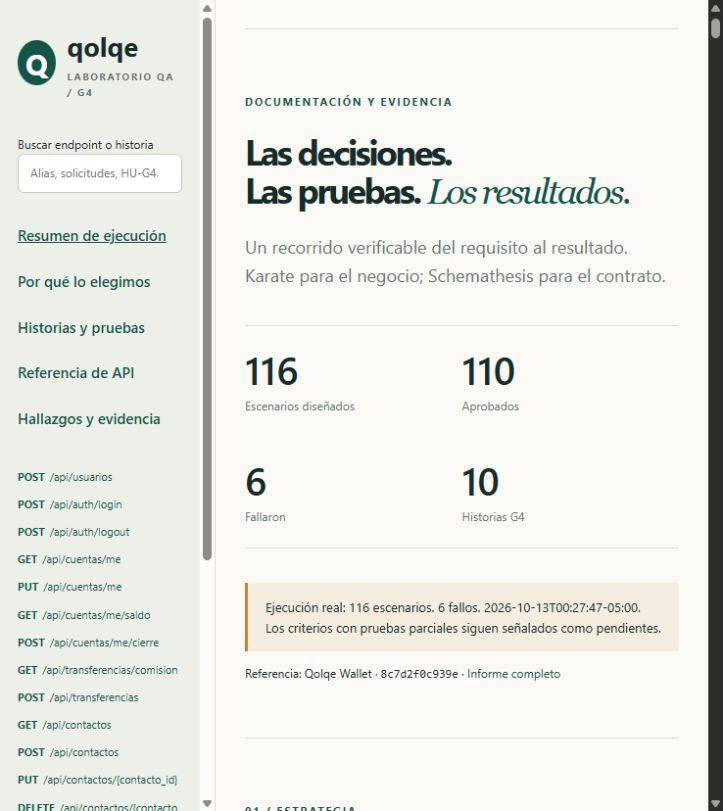
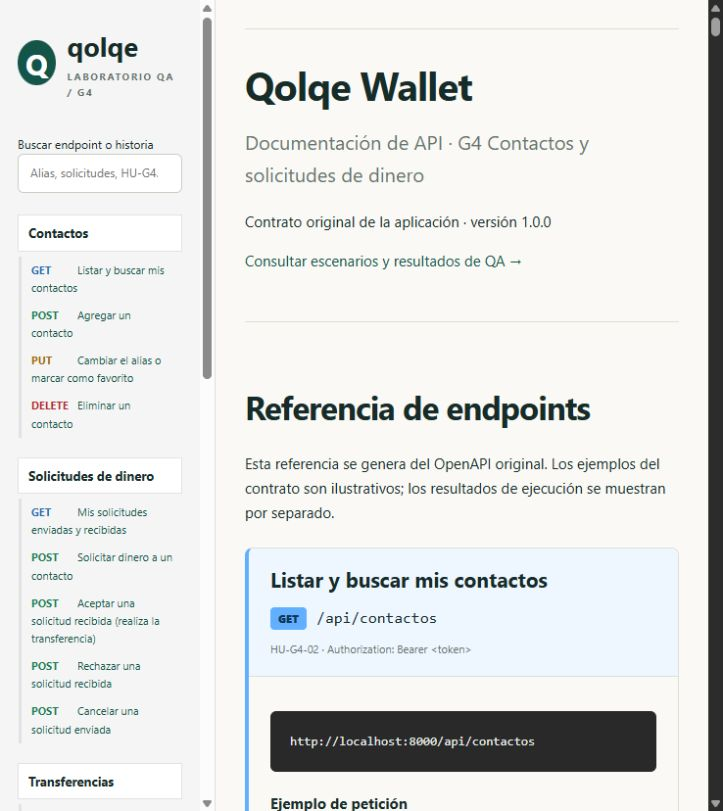
docs: ajustar referencia apiDoc, colores HTTP y registrar resultados CI

diff --git a/apidoc/styles.css b/apidoc/styles.css
@@ -1,1 +1,10 @@
 :root{--ink:#172b29;--green:#145449;--paper:#faf9f5;--line:#dedfd6;--muted:#66746e;--amber:#c08633}*{box-sizing:border-box}html{scroll-behavior:smooth;scroll-padding-top:30px}body{margin:0;background:var(--paper);color:var(--ink);font:15px/1.65 'Segoe UI',Arial,sans-serif}a{color:var(--green);text-decoration:none}a:hover{text-decoration:underline}aside{position:fixed;inset:0 auto 0 0;width:270px;padding:30px 25px;background:#edf0e8;border-right:1px solid var(--line);overflow:auto}.brand{display:flex;gap:12px;align-items:center;font-size:27px;font-weight:750;color:var(--ink)}.logo{display:grid;place-items:center;width:46px;height:46px;border-radius:50%;background:var(--green);color:white;font-size:30px}.block{display:block;font-size:10px;letter-spacing:1.6px}.muted{color:var(--muted)}.search{display:block;font-size:12px;margin:35px 0 22px}input,select{font:inherit;border:1px solid #c6cec1;border-radius:6px;background:white;padding:9px 12px;width:100%;color:var(--ink)}input:focus,select:focus{outline:2px solid var(--green);outline-offset:2px}nav{display:grid;gap:4px;margin-bottom:24px}nav a{padding:9px 0;font-weight:600}.nav-op{display:block;font-size:11px;padding:5px 0;overflow-wrap:anywhere}.nav-op span{font-weight:700;margin-right:5px}aside footer{font-size:11px;color:var(--muted);margin-top:32px;border-top:1px solid var(--line);padding-top:20px}main{margin-left:270px;max-width:1510px;padding:0 64px}header{display:flex;justify-content:space-between;gap:15px;padding:26px 0;border-bottom:1px solid var(--line);font-size:12px}.eyebrow,.kicker,.label{font-size:11px;letter-spacing:1.8px;font-weight:700}.kicker{color:var(--green);text-transform:uppercase}section{padding:54px 0;border-bottom:1px solid var(--line)}h1{font-size:clamp(36px,4.5vw,65px);line-height:1.08;letter-spacing:-2.5px;font-weight:650;margin:22px 0}h1 em{font-family:Georgia,serif;font-weight:400;color:var(--green)}h2{font-size:33px;line-height:1.2;letter-spacing:-1px;margin:13px 0 25px}h3{font-size:21px;line-height:1.3}.lead{max-width:650px;font-size:18px;color:var(--muted)}.metrics{display:grid;grid-template-columns:repeat(4,1fr);margin:35px 0;border-top:1px solid var(--line);border-bottom:1px solid var(--line)}.metric{padding:20px 10px 20px 0}.metric strong{display:block;font-size:40px;line-height:1.2;font-weight:550}.metric span{font-size:12px;color:var(--muted)}.notice{border-left:3px solid var(--amber);background:#f5eddf;padding:14px 18px;font-size:13px}.source{font-size:12px;overflow-wrap:anywhere}.decisions{display:grid;grid-template-columns:1fr 1fr;gap:40px}.decisions article+article{border-left:1px solid var(--line);padding-left:40px}.label{color:var(--green)}.toolbar{display:flex;gap:20px;margin-bottom:22px}.toolbar label{min-width:160px;font-size:12px}.case{border-top:1px solid var(--line);padding:15px 0}.case summary{cursor:pointer;display:flex;align-items:baseline;justify-content:space-between;gap:16px}.case summary strong{font-size:14px}.case .meta{font-size:11px;color:var(--muted)}.status{font-size:10px;font-weight:750;white-space:nowrap;letter-spacing:.7px}.pass{color:var(--green)}.fail{color:#a22c20}.pending{color:#866019}.case p{margin:10px 0;font-size:13px}.case pre{max-height:380px;overflow:auto}.endpoint{margin:24px 0;border:1px solid var(--line);border-radius:8px;overflow:hidden}.endpoint header{padding:18px 22px;background:#f0f2eb;display:block}.method{font-size:11px;font-weight:800;background:var(--green);color:white;padding:4px 8px;border-radius:4px;margin-right:10px}.method.delete{background:#a34837}.method.post{background:#896222}.method.put{background:#416989}.endpoint header code{font-size:16px}.endpoint .body{padding:22px}.endpoint .description{font-size:13px}.endpoint .tag{font-size:11px;color:var(--muted)}table{border-collapse:collapse;width:100%;font-size:12px}th{text-align:left;color:var(--muted);font-weight:600}td,th{padding:9px 10px;border-bottom:1px solid var(--line);vertical-align:top}td{overflow-wrap:anywhere}pre{background:#152c28;color:#e0eade;padding:20px;font:12px/1.65 Consolas,monospace;overflow:auto;border-radius:6px;white-space:pre-wrap;overflow-wrap:anywhere}code{font-family:Consolas,monospace}button{font:inherit;background:transparent;border:1px solid #c6cec1;color:var(--green);padding:5px 12px;border-radius:4px;cursor:pointer}button:hover{background:#edf0e8}.response summary{cursor:pointer;padding:10px 0}.finding{border-left:3px solid #a34837;padding:8px 20px;margin:22px 0}.main-footer{padding:35px 0;color:var(--muted);font-size:12px}.empty{color:var(--muted);padding:20px}@media(max-width:1000px){aside{width:220px;padding:25px 18px}main{margin-left:220px;padding:0 30px}.metrics{grid-template-columns:repeat(2,1fr)}}@media(max-width:700px){aside{position:static;width:100%;padding:20px}.search{margin:18px 0}nav{grid-template-columns:1fr 1fr}#endpoint-nav,aside footer{display:none}main{margin:0;padding:0 20px}header{font-size:10px}.decisions{grid-template-columns:1fr;gap:20px}.decisions article+article{border-left:0;padding-left:0}h1{letter-spacing:-1px}.toolbar{flex-wrap:wrap}section{padding:35px 0}.case summary{display:block}.endpoint header code{font-size:12px}}
+
+/* Métodos HTTP: paleta Swagger UI usada en /docs de FastAPI. */
+.method.get{background:#61affe;color:#103657}.method.post{background:#49cc90;color:#073e23}.method.put{background:#fca130;color:#422707}.method.delete{background:#f93e3e;color:#2b0909}.method.patch{background:#50e3c2;color:#053d32}
+.endpoint.get{border-left:4px solid #61affe}.endpoint.post{border-left:4px solid #49cc90}.endpoint.put{border-left:4px solid #fca130}.endpoint.delete{border-left:4px solid #f93e3e}.endpoint.patch{border-left:4px solid #50e3c2}
+.endpoint.get header{background:#eef6ff}.endpoint.post header{background:#eefbf4}.endpoint.put header{background:#fff5e8}.endpoint.delete header{background:#fff0f0}.endpoint.patch header{background:#edfcf8}
+.nav-op.get span{color:#256bb4}.nav-op.post span{color:#168050}.nav-op.put span{color:#a66500}.nav-op.delete span{color:#b52626}.nav-op.patch span{color:#087d65}
+
+/* Distribución de referencia apiDoc: navegación agrupada y ejemplo junto a la URL. */
+aside{background:#f5f5f5}#api-portada{padding:35px 0}#api-portada h1{font-size:40px;letter-spacing:-1px;margin:0 0 12px}#api-portada .lead{font-size:20px}.nav-group h4{font-size:13px;margin:20px 0 5px;padding:7px 10px;background:white;border:1px solid #e2e2e2}.nav-op{border-left:3px solid #e2e2e2;padding:5px 10px;margin-left:1px}.nav-op span{display:inline-block;min-width:42px}nav{border-top:1px solid var(--line);padding-top:18px;margin-top:25px}.url{background:#292929;color:#eeeeee;font-size:13px}.endpoint header h3{margin-top:0;margin-bottom:12px}.endpoint header .tag{display:block;margin-top:10px}

diff --git a/apidoc/index.html b/apidoc/index.html
@@ -1,8 +1,8 @@
 <!doctype html>
 <html lang="es"><head><meta charset="utf-8"><meta name="viewport" content="width=device-width,initial-scale=1"><title>Qolqe · Laboratorio QA G4</title><link rel="stylesheet" href="styles.css"></head>
-<body><aside><a class="brand" href="#inicio"><span class="logo">Q</span><span>qolqe<span class="muted block">LABORATORIO QA / G4</span></span></a><label class="search">Buscar endpoint o historia<input id="search" type="search" placeholder="Alias, solicitudes, HU-G4…"></label><nav><a href="#inicio">Resumen de ejecución</a><a href="#decisiones">Por qué lo elegimos</a><a href="#historias">Historias y pruebas</a><a href="#contrato">Referencia de API</a><a href="#hallazgos">Hallazgos y evidencia</a></nav><div id="endpoint-nav"></div><footer>Granit + Franco<br>CS5383 · Pruebas y Verificación<br><span id="version"></span></footer></aside>
-<main><header><span class="eyebrow">CONTACTOS Y SOLICITUDES DE DINERO</span><a href="https://github.com/granitespinoza/qolqe-g4-qa" target="_blank" rel="noopener">Repositorio ↗</a></header><section id="inicio"><p class="kicker">Documentación y evidencia</p><h1>Las decisiones.<br>Las pruebas. <em>Los resultados.</em></h1><p class="lead">Un recorrido verificable del requisito al resultado. Karate para el negocio; Schemathesis para el contrato.</p><div id="metrics" class="metrics"></div><p id="execution" class="notice"></p><div class="source">Referencia: Qolqe Wallet · <code id="commit"></code> · <a href="../docs/informe.md">Informe completo</a></div></section>
+<body><aside><a class="brand" href="#inicio"><span class="logo">Q</span><span>qolqe<span class="muted block">LABORATORIO QA / G4</span></span></a><label class="search">Buscar endpoint o historia<input id="search" type="search" placeholder="Alias, solicitudes, HU-G4…"></label><div id="endpoint-nav"></div><nav><a href="#api-portada">Documentación API</a><a href="#inicio">Resumen de ejecución</a><a href="#decisiones">Por qué lo elegimos</a><a href="#historias">Historias y pruebas</a><a href="#contrato">Referencia de API</a><a href="#hallazgos">Hallazgos y evidencia</a></nav><footer>Granit + Franco<br>CS5383 · Pruebas y Verificación<br><span id="version"></span></footer></aside>
+<main><header><span class="eyebrow">CONTACTOS Y SOLICITUDES DE DINERO</span><a href="https://github.com/granitespinoza/qolqe-g4-qa" target="_blank" rel="noopener">Repositorio ↗</a></header><section id="api-portada"><h1>Qolqe Wallet</h1><p class="lead">Documentación de API · G4 Contactos y solicitudes de dinero</p><p>Contrato original de la aplicación · versión 1.0.0</p><p><a href="#historias">Consultar escenarios y resultados de QA →</a></p></section><section id="contrato"><h2>Referencia de endpoints</h2><p>Esta referencia se genera del OpenAPI original. Los ejemplos del contrato son ilustrativos; los resultados de ejecución se muestran por separado.</p><div id="endpoints"></div></section><section id="inicio"><p class="kicker">Documentación y evidencia</p><h1>Las decisiones.<br>Las pruebas. <em>Los resultados.</em></h1><p class="lead">Un recorrido verificable del requisito al resultado. Karate para el negocio; Schemathesis para el contrato.</p><div id="metrics" class="metrics"></div><p id="execution" class="notice"></p><div class="source">Referencia: Qolqe Wallet · <code id="commit"></code> · <a href="../docs/informe.md">Informe completo</a></div></section>
 <section id="decisiones"><p class="kicker">01 / Estrategia</p><h2>Una herramienta por necesidad</h2><div class="decisions"><article><span class="label">KARATE 1.5.2</span><h3>Comportamientos concretos</h3><p>Ejecutamos archivos .feature y comprobamos errores de negocio, estados, saldos y efectos.</p><p><strong>Frente a Postman:</strong> evita mantener una colección y su correspondencia con Gherkin. <strong>Frente a pytest-bdd:</strong> reduce código de enlace HTTP.</p><p class="muted">Limitación: el DSL incluye detalles técnicos y requiere Java. No demuestra por sí solo cobertura total.</p></article><article><span class="label">SCHEMATHESIS 4.17.0</span><h3>Contrato declarado</h3><p>Genera entradas desde OpenAPI y comprueba respuestas contra sus esquemas.</p><p><strong>Por qué complementa:</strong> explora combinaciones técnicas sin redactarlas todas a mano.</p><p class="muted">Limitación: depende de las restricciones declaradas y del contexto de datos. Un 404 no prueba un flujo exitoso.</p></article></div><p><a href="../docs/decisiones.md">Consultar decisiones, alternativas y límites ↗</a></p></section>
 <section id="historias"><p class="kicker">02 / Diseño y trazabilidad</p><h2>Cada caso tiene una razón</h2><div class="toolbar"><label>Historia <select id="hu-filter"><option value="">Todas</option></select></label><label>Resultado <select id="status-filter"><option value="">Todos</option><option>APROBADO</option><option>FALLÓ</option><option>PENDIENTE</option></select></label></div><div id="cases"></div><p><a href="../docs/diseno-pruebas.md">Matriz de diseño completa ↗</a> · <a href="../docs/cobertura.md">Criterios y pendientes ↗</a></p></section>
-<section id="contrato"><p class="kicker">03 / API de referencia</p><h2>Consultar antes de probar</h2><p>Esta referencia se genera del OpenAPI original. Los ejemplos del contrato son ilustrativos; los resultados de ejecución se muestran por separado.</p><div id="endpoints"></div></section>
+
 <section id="hallazgos"><p class="kicker">04 / Investigación</p><h2>Resultados que podemos sustentar</h2><div id="findings"></div><p><a href="../docs/defectos.md">Reproducción y clasificación ↗</a> · <a href="../reports/resultados.json">Resultados estructurados ↗</a></p></section><footer class="main-footer">Sin resultados inventados. Cobertura declarada por criterio, no por número de escenarios.<br>Documentación local de Qolqe G4 · Generada desde fuentes versionadas.</footer></main><script src="data.js"></script><script src="app.js"></script></body></html>

diff --git a/apidoc/app.js b/apidoc/app.js
@@ -15,8 +15,8 @@ function draw(){let q=el('search').value.toLowerCase();let hu=el('hu-filter').va
 let cs=D.cases.filter(c=>(!hu||c.hu===hu)&&(!st||status(c)===st)&&(!q||JSON.stringify(c).toLowerCase().includes(q)));
 el('cases').innerHTML=cs.map(c=>`<details class="case" id="${c.id}"><summary><span><span class="meta">${esc(c.id)} · ${esc(c.hu)} · CA${c.ca.join(', CA')}</span><br><strong>${esc(c.title)}</strong></span><span class="status ${status(c)==='APROBADO'?'pass':status(c)==='FALLÓ'?'fail':'pending'}">${status(c)}</span></summary><p><strong>${esc(c.technique)}</strong> · ${esc(c.rule)}</p><p>${esc(c.why)}</p>${D.results[c.id]?.error?`<p class="fail">${esc(D.results[c.id].error)}</p>`:''}<p><a href="../features/${c.hu.toLowerCase()}.feature">Abrir feature ↗</a> · <a href="../evidencias/${c.id}.html">Registro HTTP real ↗</a></p><pre>${esc(c.steps.join('\n'))}</pre></details>`).join('')||'<p class="empty">Sin coincidencias.</p>';
 let ops=D.operations.filter(o=>!q||JSON.stringify(o).toLowerCase().includes(q));
-el('endpoint-nav').innerHTML=ops.map(o=>`<a class="nav-op" href="#${o.id}"><span>${o.method.toUpperCase()}</span>${esc(o.path)}</a>`).join('');
-el('endpoints').innerHTML=ops.map(o=>{let op=o.operation;let b=op.requestBody?.content?.['application/json'];return `<article class="endpoint" id="${o.id}"><header><span class="method ${o.method}">${o.method.toUpperCase()}</span><code>${esc(o.path)}</code><h3>${esc(op.summary)}</h3><span class="tag">${esc((op['x-hu']||[]).join(' · '))} · ${op.security?'Authorization: Bearer &lt;token&gt;':'Sin autenticación declarada'}</span></header><div class="body"><p class="description">${esc(op.description||'')}</p>${op.parameters?.length?`<h4>Parámetros</h4><table><tr><th>Nombre</th><th>Ubicación</th><th>Obligatorio</th><th>Esquema</th></tr>${op.parameters.map(p=>`<tr><td>${esc(p.name)}</td><td>${esc(p.in)}</td><td>${p.required?'Sí':'No'}</td><td><code>${esc(JSON.stringify(p.schema))}</code></td></tr>`).join('')}</table>`:''}${b?`<h4>Cuerpo · application/json</h4>${fields(b.schema)}<details><summary>Ejemplos declarados en el contrato</summary><pre>${pretty(b.examples||b.example||schema(b.schema))}</pre></details>`:''}<h4>Petición cURL de referencia</h4><button class="copy" data-op="${o.id}">Copiar cURL</button><pre>${esc(o.curl)}</pre><h4>Respuestas documentadas</h4>${Object.entries(op.responses).map(([s,r])=>`<details class="response"><summary><strong>${esc(s)}</strong> · ${esc(r.description)}</summary>${Object.entries(r.content||{}).map(([mime,x])=>`<p>${esc(mime)}</p>${fields(x.schema)}<pre>${pretty(x.examples||x.example||schema(x.schema))}</pre>`).join('')||'<p>Sin cuerpo declarado.</p>'}</details>`).join('')}</div></article>`}).join('');}
+const group=o=>o.path.startsWith('/api/contactos')?'Contactos':o.path.startsWith('/api/solicitudes')?'Solicitudes de dinero':o.path.startsWith('/api/transferencias')?'Transferencias':o.path.startsWith('/api/cuentas')?'Cuenta':'Autenticación';const order=['Contactos','Solicitudes de dinero','Transferencias','Autenticación','Cuenta'];ops.sort((a,b)=>order.indexOf(group(a))-order.indexOf(group(b)));el('endpoint-nav').innerHTML=order.map(g=>{let members=ops.filter(o=>group(o)===g);return members.length?`<div class="nav-group"><h4>${g}</h4>${members.map(o=>`<a class="nav-op ${o.method}" href="#${o.id}"><span>${o.method.toUpperCase()}</span>${esc(o.operation.summary)}</a>`).join('')}</div>`:''}).join('');
+el('endpoints').innerHTML=ops.map(o=>{let op=o.operation;let b=op.requestBody?.content?.['application/json'];return `<article class="endpoint ${o.method}" id="${o.id}"><header><h3>${esc(op.summary)}</h3><span class="method ${o.method}">${o.method.toUpperCase()}</span><code>${esc(o.path)}</code><span class="tag">${esc((op['x-hu']||[]).join(' · '))} · ${op.security?'Authorization: Bearer &lt;token&gt;':'Sin autenticación declarada'}</span></header><div class="body"><pre class="url">http://localhost:8000${esc(o.path)}</pre><h4>Ejemplo de petición</h4><button class="copy" data-op="${o.id}">Copiar cURL</button><pre>${esc(o.curl)}</pre><p class="description">${esc(op.description||'')}</p>${op.parameters?.length?`<h4>Parámetros</h4><table><tr><th>Nombre</th><th>Ubicación</th><th>Obligatorio</th><th>Esquema</th></tr>${op.parameters.map(p=>`<tr><td>${esc(p.name)}</td><td>${esc(p.in)}</td><td>${p.required?'Sí':'No'}</td><td><code>${esc(JSON.stringify(p.schema))}</code></td></tr>`).join('')}</table>`:''}${b?`<h4>Cuerpo · application/json</h4>${fields(b.schema)}<details><summary>Ejemplos declarados en el contrato</summary><pre>${pretty(b.examples||b.example||schema(b.schema))}</pre></details>`:''}<h4>Respuestas documentadas</h4>${Object.entries(op.responses).map(([s,r])=>`<details class="response"><summary><strong>${esc(s)}</strong> · ${esc(r.description)}</summary>${Object.entries(r.content||{}).map(([mime,x])=>`<p>${esc(mime)}</p>${fields(x.schema)}<pre>${pretty(x.examples||x.example||schema(x.schema))}</pre>`).join('')||'<p>Sin cuerpo declarado.</p>'}</details>`).join('')}</div></article>`}).join('');}
 el('findings').innerHTML=(D.findings||[]).map(f=>`<article class="finding"><span class="label">${esc(f.id)} · ${esc(f.classification)}</span><h3>${esc(f.title)}</h3><p>${esc(f.description)}</p><a href="#${esc(f.case)}">Ver prueba ${esc(f.case)} ↓</a></article>`).join('')||'<p>No hay hallazgos confirmados registrados.</p>';
 for(let id of ['search','hu-filter','status-filter'])el(id).addEventListener('input',draw);
 document.addEventListener('click',async e=>{if(e.target.matches('.copy')){let o=D.operations.find(o=>o.id===e.target.dataset.op);try{await navigator.clipboard.writeText(o.curl);e.target.textContent='Copiado'}catch{e.target.textContent='Selecciona el cURL para copiar'}}});

diff --git a/docs/ci.md b/docs/ci.md
@@ -1,0 +1,20 @@
+# GitHub Actions — resultado verificado
+
+Ejecución: https://github.com/granitespinoza/qolqe-g4-qa/actions/runs/38351731828
+
+Ambos jobs terminaron y conservaron artefactos. Su estado es fallo, no una aprobación de la suite.
+
+| Ejecución | Resultado |
+|---|---|
+| Karate local | 116 escenarios: 110 aprobados, 6 fallos; 5 defectos funcionales reproducidos |
+| Karate en GitHub Actions | 116 escenarios: 108 aprobados, 8 fallos |
+| Schemathesis | Job ejecutado; fallos de conformidad y advertencias conservados en su artefacto |
+
+## Diferencias pendientes de investigar
+Además de los 6 fallos de aserción reproducidos localmente, CI presenta 2 fallos de preparación de usuarios: tras registrar una cuenta con 201, su login inmediato devolvió 401 CREDENCIALES_INVALIDAS. Aparecen en el contexto de HU-G4-06 y HU-N-04. No se cuentan automáticamente como dos nuevos defectos de esas HU.
+
+Hipótesis a verificar: visibilidad de la escritura tras respuesta, porque la dependencia de base de datos confirma la transacción al finalizar. Es una hipótesis de análisis, no una causa raíz demostrada.
+
+Los escenarios que fallan en preparación no prueban su comportamiento de negocio. No ocultamos esta diferencia ni reemplazamos expectativas para obtener un pipeline verde.
+
+Los artefactos brutos son privados y se retienen 7 días. La evidencia local redactada y el resumen quedan versionados.

diff --git a/docs/revision-contrato.md b/docs/revision-contrato.md
@@ -7,7 +7,7 @@ Schemathesis 4.17.0; fases examples, coverage y fuzzing. Stateful desactivado. S
 ## Interpretación de hallazgos
 | Petición / respuesta | Interpretación | Próxima comprobación |
 |---|---|---|
-| POST solicitudes con solo contacto_id devuelve 422, pero se generó como válida | Posible obligatoriedad incompleta en el contrato | Revisar required de SolicitudDinero y contrastar CA1: monto y motivo requeridos |
+| POST solicitudes con solo contacto_id devuelve 422, pero se generó como válida | Señal automática pendiente: el snapshot sí declara obligatorios contacto_id, monto y motivo | Rechazar esa petición es correcto; investigar generación/clasificación de Schemathesis antes de atribuir un defecto |
 | Alias largo devuelve 409 CONTACTO_EXISTENTE | La clasificación automática no implica que se haya creado un contacto inválido: intervino un duplicado | Repetir con celular propio de contexto que aún no sea contacto y verificar ausencia de creación |
 | Celular con dígitos Unicode genera 422 | Posible diferencia entre regex del contrato y validación del código | Revisar la semántica de digit y definir con requisitos si se admiten solamente dígitos ASCII |
 | GET solicitudes?estado=null devuelve 422 | Diferencia entre null del esquema y texto literal «null» en query | Reproducir omitiendo estado; no asumir que la cadena null equivale a ausencia |

diff --git a/README.md b/README.md
@@ -10,6 +10,8 @@ Trabajo de QA asistido con IA: decisiones justificadas, pruebas reproducibles y 
 3. [Diseño por historia](docs/diseno-pruebas.md) y [pendientes por criterio](docs/cobertura.md).
 4. [Defectos reproducidos](docs/defectos.md).
 5. [Documentación HTML](apidoc/index.html): endpoints, búsqueda, escenarios y resultados.
+6. [PPT editable](presentacion/G4-contactos.pptx) y [guion de sustentación](presentacion/guion.md).
+7. [Estado verificado del pipeline](docs/ci.md).
 
 ## Preparar en Windows
 Requisitos: Git y Python 3.12. Java 17 se descarga localmente si falta.

diff --git a/docs/informe.md b/docs/informe.md
@@ -18,7 +18,7 @@ El número de escenarios aprobados no mide cobertura de criterios ni ausencia de
 
 ## 3. Pruebas web y CI/CD
 Workflow preparado en `.github/workflows/api.yml`, con jobs separados para Karate y contrato. Conserva los reportes aunque una prueba falle. El pipeline debe informar fallos reales.
-E2E web pendiente de Parte 2.
+[Resultado verificado y diferencias de CI](ci.md). E2E web pendiente de Parte 2.
 
 ## 4. Rendimiento
 Pendiente de Parte 3; no se realizó prueba de carga contra servicios públicos.
